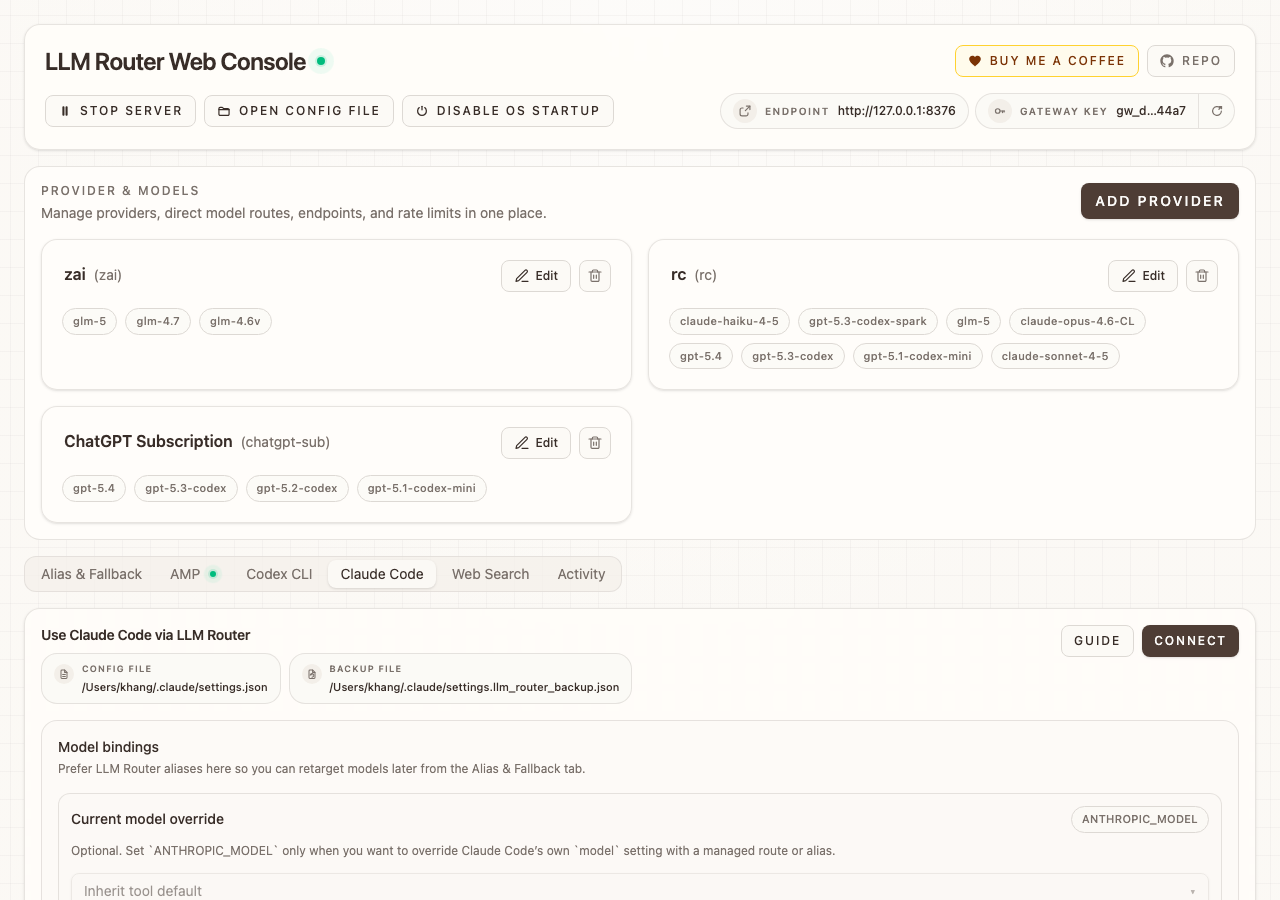
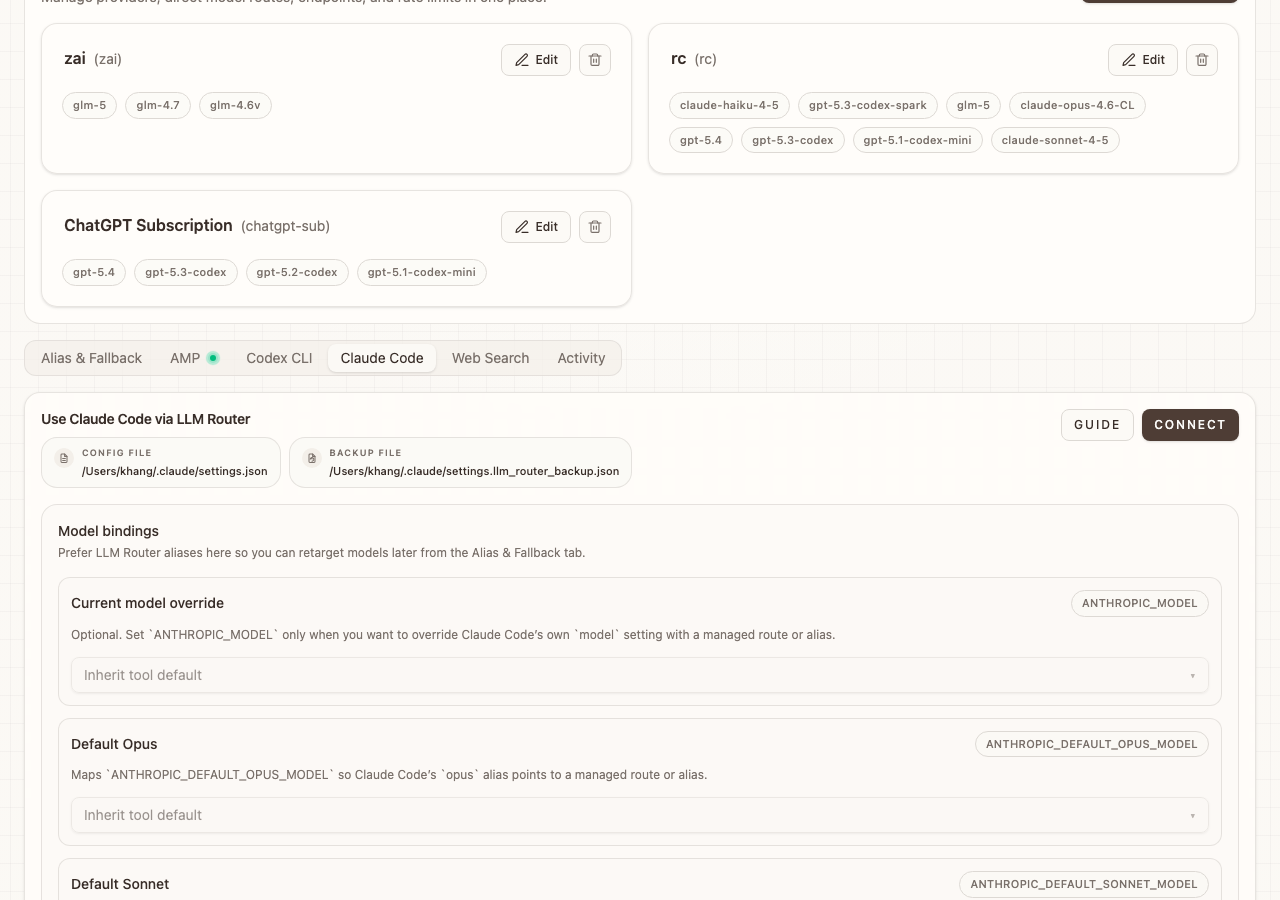
docs: improve README screenshots with scrolled tab views and hero image
- Move dashboard screenshot to top of README as hero image
- Retake tab screenshots scrolled down to show full tab content
- Add Web Search tab screenshot

diff --git a/README.md b/README.md
@@ -2,6 +2,8 @@
 
 LLM Router is a local and Cloudflare-deployable gateway for routing one client endpoint across multiple LLM providers, models, aliases, fallbacks, and rate limits.
 
+![LLM Router Web Console](./assets/screenshots/web-ui-dashboard.png)
+
 **Current version**: `2.2.0`
 
 NPM package:
@@ -111,13 +113,13 @@ The Web UI is localhost-only by default because it can expose secrets and live c
 
 ### Screenshots
 
-**Dashboard — Providers & Alias Management**
-
-![Web UI Dashboard](./assets/screenshots/web-ui-dashboard.png)
-
-**Alias & Fallback Configuration**
+**Alias & Fallback**
 
 ![Alias & Fallback](./assets/screenshots/web-ui-aliases.png)
+
+**AMP Configuration**
+
+![AMP Configuration](./assets/screenshots/web-ui-amp.png)
 
 **Claude Code Routing**
 
@@ -127,9 +129,9 @@ The Web UI is localhost-only by default because it can expose secrets and live c
 
 ![Codex CLI Routing](./assets/screenshots/web-ui-codex-cli.png)
 
-**AMP Configuration**
+**Web Search**
 
-![AMP Configuration](./assets/screenshots/web-ui-amp.png)
+![Web Search](./assets/screenshots/web-ui-web-search.png)
 
 ## CLI Parity
 
